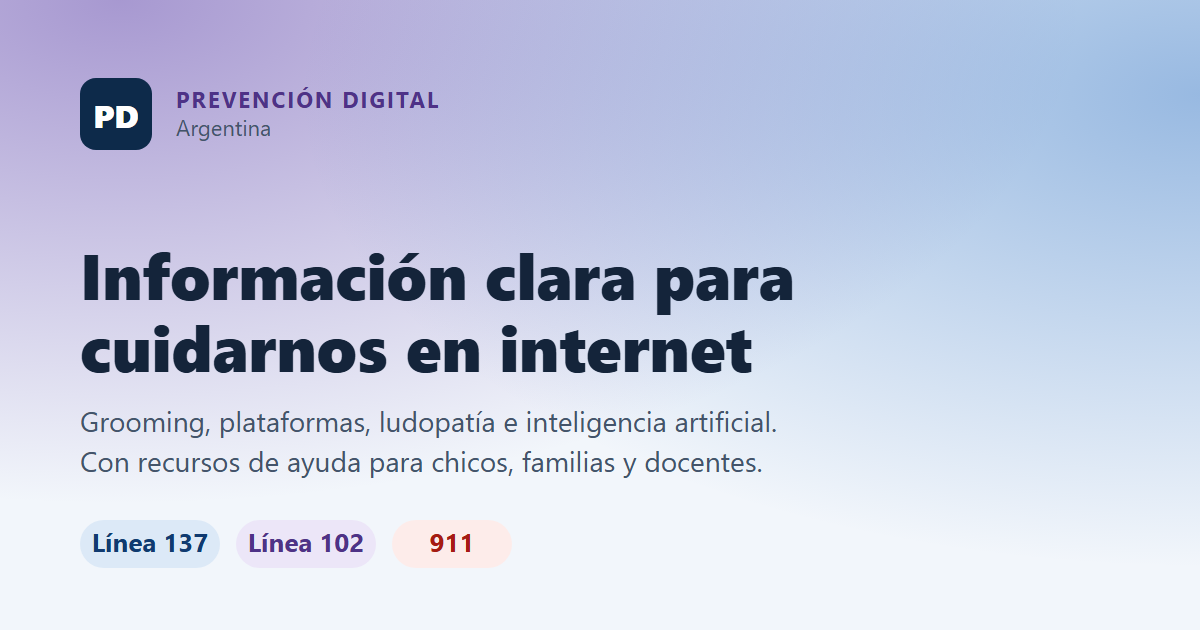
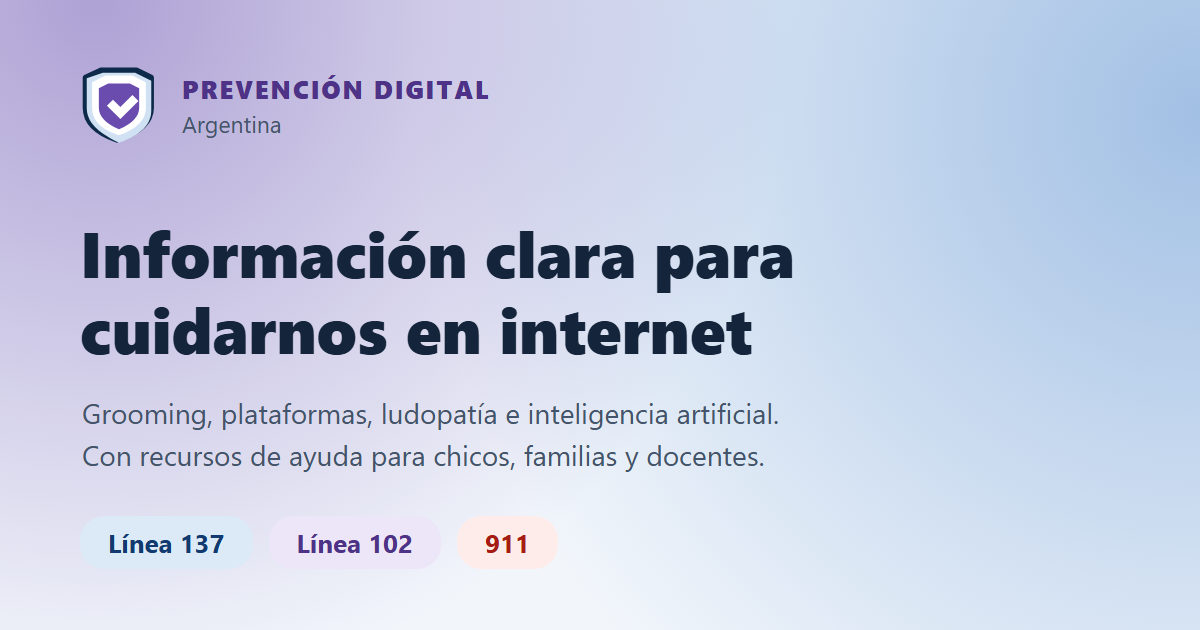
Pone el escudo como marca del sitio y arregla el enlace actual del submenú
- Reemplaza el monograma "PD" por `assets/escudo.svg` en el encabezado y el pie de todas las páginas, y actualiza favicon, icono de pantalla de inicio e imagen para compartir.
- En modo claro, el ítem de la sección actual dentro de los desplegables quedaba blanco sobre blanco: el resaltado del encabezado ya no se aplica al submenú y este tiene su propio estilo.

diff --git a/plataformas/discord.html b/plataformas/discord.html
@@ -31,7 +31,7 @@
     <header class="encabezado-sitio">
         <div class="contenedor encabezado-sitio__interior">
             <a class="marca" href="../index.html" aria-label="Prevención Digital, ir al inicio">
-                <span class="marca__monograma" aria-hidden="true">PD</span>
+                <img class="marca__icono" src="../assets/escudo.svg" alt="" width="38" height="38" aria-hidden="true">
                 <span class="marca__texto">Prevención Digital<small>Argentina</small></span>
             </a>
 
@@ -271,7 +271,7 @@
             <div class="pie-sitio__grid">
                 <div class="pie-sitio__marca">
                     <a class="marca" href="../index.html" aria-label="Prevención Digital, ir al inicio">
-                        <span class="marca__monograma" aria-hidden="true">PD</span>
+                        <img class="marca__icono" src="../assets/escudo.svg" alt="" width="38" height="38" aria-hidden="true">
                         <span class="marca__texto">Prevención Digital<small>Argentina</small></span>
                     </a>
                     <p>Información clara sobre grooming y riesgos digitales, para chicos, adolescentes, familias y docentes.</p>

diff --git a/plataformas/free-fire.html b/plataformas/free-fire.html
@@ -31,7 +31,7 @@
     <header class="encabezado-sitio">
         <div class="contenedor encabezado-sitio__interior">
             <a class="marca" href="../index.html" aria-label="Prevención Digital, ir al inicio">
-                <span class="marca__monograma" aria-hidden="true">PD</span>
+                <img class="marca__icono" src="../assets/escudo.svg" alt="" width="38" height="38" aria-hidden="true">
                 <span class="marca__texto">Prevención Digital<small>Argentina</small></span>
             </a>
 
@@ -263,7 +263,7 @@
             <div class="pie-sitio__grid">
                 <div class="pie-sitio__marca">
                     <a class="marca" href="../index.html" aria-label="Prevención Digital, ir al inicio">
-                        <span class="marca__monograma" aria-hidden="true">PD</span>
+                        <img class="marca__icono" src="../assets/escudo.svg" alt="" width="38" height="38" aria-hidden="true">
                         <span class="marca__texto">Prevención Digital<small>Argentina</small></span>
                     </a>
                     <p>Información clara sobre grooming y riesgos digitales, para chicos, adolescentes, familias y docentes.</p>

diff --git a/plataformas/minecraft.html b/plataformas/minecraft.html
@@ -31,7 +31,7 @@
     <header class="encabezado-sitio">
         <div class="contenedor encabezado-sitio__interior">
             <a class="marca" href="../index.html" aria-label="Prevención Digital, ir al inicio">
-                <span class="marca__monograma" aria-hidden="true">PD</span>
+                <img class="marca__icono" src="../assets/escudo.svg" alt="" width="38" height="38" aria-hidden="true">
                 <span class="marca__texto">Prevención Digital<small>Argentina</small></span>
             </a>
 
@@ -263,7 +263,7 @@
             <div class="pie-sitio__grid">
                 <div class="pie-sitio__marca">
                     <a class="marca" href="../index.html" aria-label="Prevención Digital, ir al inicio">
-                        <span class="marca__monograma" aria-hidden="true">PD</span>
+                        <img class="marca__icono" src="../assets/escudo.svg" alt="" width="38" height="38" aria-hidden="true">
                         <span class="marca__texto">Prevención Digital<small>Argentina</small></span>
                     </a>
                     <p>Información clara sobre grooming y riesgos digitales, para chicos, adolescentes, familias y docentes.</p>

diff --git a/plataformas/roblox.html b/plataformas/roblox.html
@@ -31,7 +31,7 @@
     <header class="encabezado-sitio">
         <div class="contenedor encabezado-sitio__interior">
             <a class="marca" href="../index.html" aria-label="Prevención Digital, ir al inicio">
-                <span class="marca__monograma" aria-hidden="true">PD</span>
+                <img class="marca__icono" src="../assets/escudo.svg" alt="" width="38" height="38" aria-hidden="true">
                 <span class="marca__texto">Prevención Digital<small>Argentina</small></span>
             </a>
 
@@ -263,7 +263,7 @@
             <div class="pie-sitio__grid">
                 <div class="pie-sitio__marca">
                     <a class="marca" href="../index.html" aria-label="Prevención Digital, ir al inicio">
-                        <span class="marca__monograma" aria-hidden="true">PD</span>
+                        <img class="marca__icono" src="../assets/escudo.svg" alt="" width="38" height="38" aria-hidden="true">
                         <span class="marca__texto">Prevención Digital<small>Argentina</small></span>
                     </a>
                     <p>Información clara sobre grooming y riesgos digitales, para chicos, adolescentes, familias y docentes.</p>

diff --git a/temas/ia.html b/temas/ia.html
@@ -31,7 +31,7 @@
     <header class="encabezado-sitio">
         <div class="contenedor encabezado-sitio__interior">
             <a class="marca" href="../index.html" aria-label="Prevención Digital, ir al inicio">
-                <span class="marca__monograma" aria-hidden="true">PD</span>
+                <img class="marca__icono" src="../assets/escudo.svg" alt="" width="38" height="38" aria-hidden="true">
                 <span class="marca__texto">Prevención Digital<small>Argentina</small></span>
             </a>
 
@@ -306,7 +306,7 @@
             <div class="pie-sitio__grid">
                 <div class="pie-sitio__marca">
                     <a class="marca" href="../index.html" aria-label="Prevención Digital, ir al inicio">
-                        <span class="marca__monograma" aria-hidden="true">PD</span>
+                        <img class="marca__icono" src="../assets/escudo.svg" alt="" width="38" height="38" aria-hidden="true">
                         <span class="marca__texto">Prevención Digital<small>Argentina</small></span>
                     </a>
                     <p>Información clara sobre grooming y riesgos digitales, para chicos, adolescentes, familias y docentes.</p>

diff --git a/temas/ludopatia.html b/temas/ludopatia.html
@@ -31,7 +31,7 @@
     <header class="encabezado-sitio">
         <div class="contenedor encabezado-sitio__interior">
             <a class="marca" href="../index.html" aria-label="Prevención Digital, ir al inicio">
-                <span class="marca__monograma" aria-hidden="true">PD</span>
+                <img class="marca__icono" src="../assets/escudo.svg" alt="" width="38" height="38" aria-hidden="true">
                 <span class="marca__texto">Prevención Digital<small>Argentina</small></span>
             </a>
 
@@ -309,7 +309,7 @@
             <div class="pie-sitio__grid">
                 <div class="pie-sitio__marca">
                     <a class="marca" href="../index.html" aria-label="Prevención Digital, ir al inicio">
-                        <span class="marca__monograma" aria-hidden="true">PD</span>
+                        <img class="marca__icono" src="../assets/escudo.svg" alt="" width="38" height="38" aria-hidden="true">
                         <span class="marca__texto">Prevención Digital<small>Argentina</small></span>
                     </a>
                     <p>Información clara sobre grooming y riesgos digitales, para chicos, adolescentes, familias y docentes.</p>

diff --git a/404.html b/404.html
@@ -22,7 +22,7 @@
     <header class="encabezado-sitio">
         <div class="contenedor encabezado-sitio__interior">
             <a class="marca" href="index.html" aria-label="Prevención Digital, ir al inicio">
-                <span class="marca__monograma" aria-hidden="true">PD</span>
+                <img class="marca__icono" src="assets/escudo.svg" alt="" width="38" height="38" aria-hidden="true">
                 <span class="marca__texto">Prevención Digital<small>Argentina</small></span>
             </a>
 
@@ -212,7 +212,7 @@
             <div class="pie-sitio__grid">
                 <div class="pie-sitio__marca">
                     <a class="marca" href="index.html" aria-label="Prevención Digital, ir al inicio">
-                        <span class="marca__monograma" aria-hidden="true">PD</span>
+                        <img class="marca__icono" src="assets/escudo.svg" alt="" width="38" height="38" aria-hidden="true">
                         <span class="marca__texto">Prevención Digital<small>Argentina</small></span>
                     </a>
                     <p>Información clara sobre grooming y riesgos digitales, para chicos, adolescentes, familias y docentes.</p>

diff --git a/ayuda.html b/ayuda.html
@@ -31,7 +31,7 @@
     <header class="encabezado-sitio">
         <div class="contenedor encabezado-sitio__interior">
             <a class="marca" href="index.html" aria-label="Prevención Digital, ir al inicio">
-                <span class="marca__monograma" aria-hidden="true">PD</span>
+                <img class="marca__icono" src="assets/escudo.svg" alt="" width="38" height="38" aria-hidden="true">
                 <span class="marca__texto">Prevención Digital<small>Argentina</small></span>
             </a>
 
@@ -316,7 +316,7 @@
             <div class="pie-sitio__grid">
                 <div class="pie-sitio__marca">
                     <a class="marca" href="index.html" aria-label="Prevención Digital, ir al inicio">
-                        <span class="marca__monograma" aria-hidden="true">PD</span>
+                        <img class="marca__icono" src="assets/escudo.svg" alt="" width="38" height="38" aria-hidden="true">
                         <span class="marca__texto">Prevención Digital<small>Argentina</small></span>
                     </a>
                     <p>Información clara sobre grooming y riesgos digitales, para chicos, adolescentes, familias y docentes.</p>

diff --git a/chicos.html b/chicos.html
@@ -31,7 +31,7 @@
     <header class="encabezado-sitio">
         <div class="contenedor encabezado-sitio__interior">
             <a class="marca" href="index.html" aria-label="Prevención Digital, ir al inicio">
-                <span class="marca__monograma" aria-hidden="true">PD</span>
+                <img class="marca__icono" src="assets/escudo.svg" alt="" width="38" height="38" aria-hidden="true">
                 <span class="marca__texto">Prevención Digital<small>Argentina</small></span>
             </a>
 
@@ -449,7 +449,7 @@
             <div class="pie-sitio__grid">
                 <div class="pie-sitio__marca">
                     <a class="marca" href="index.html" aria-label="Prevención Digital, ir al inicio">
-                        <span class="marca__monograma" aria-hidden="true">PD</span>
+                        <img class="marca__icono" src="assets/escudo.svg" alt="" width="38" height="38" aria-hidden="true">
                         <span class="marca__texto">Prevención Digital<small>Argentina</small></span>
                     </a>
                     <p>Información clara sobre grooming y riesgos digitales, para chicos, adolescentes, familias y docentes.</p>

diff --git a/familias.html b/familias.html
@@ -31,7 +31,7 @@
     <header class="encabezado-sitio">
         <div class="contenedor encabezado-sitio__interior">
             <a class="marca" href="index.html" aria-label="Prevención Digital, ir al inicio">
-                <span class="marca__monograma" aria-hidden="true">PD</span>
+                <img class="marca__icono" src="assets/escudo.svg" alt="" width="38" height="38" aria-hidden="true">
                 <span class="marca__texto">Prevención Digital<small>Argentina</small></span>
             </a>
 
@@ -449,7 +449,7 @@
             <div class="pie-sitio__grid">
                 <div class="pie-sitio__marca">
                     <a class="marca" href="index.html" aria-label="Prevención Digital, ir al inicio">
-                        <span class="marca__monograma" aria-hidden="true">PD</span>
+                        <img class="marca__icono" src="assets/escudo.svg" alt="" width="38" height="38" aria-hidden="true">
                         <span class="marca__texto">Prevención Digital<small>Argentina</small></span>
                     </a>
                     <p>Información clara sobre grooming y riesgos digitales, para chicos, adolescentes, familias y docentes.</p>

diff --git a/grooming.html b/grooming.html
@@ -31,7 +31,7 @@
     <header class="encabezado-sitio">
         <div class="contenedor encabezado-sitio__interior">
             <a class="marca" href="index.html" aria-label="Prevención Digital, ir al inicio">
-                <span class="marca__monograma" aria-hidden="true">PD</span>
+                <img class="marca__icono" src="assets/escudo.svg" alt="" width="38" height="38" aria-hidden="true">
                 <span class="marca__texto">Prevención Digital<small>Argentina</small></span>
             </a>
 
@@ -419,7 +419,7 @@
             <div class="pie-sitio__grid">
                 <div class="pie-sitio__marca">
                     <a class="marca" href="index.html" aria-label="Prevención Digital, ir al inicio">
-                        <span class="marca__monograma" aria-hidden="true">PD</span>
+                        <img class="marca__icono" src="assets/escudo.svg" alt="" width="38" height="38" aria-hidden="true">
                         <span class="marca__texto">Prevención Digital<small>Argentina</small></span>
                     </a>
                     <p>Información clara sobre grooming y riesgos digitales, para chicos, adolescentes, familias y docentes.</p>

diff --git a/index.html b/index.html
@@ -31,7 +31,7 @@
     <header class="encabezado-sitio">
         <div class="contenedor encabezado-sitio__interior">
             <a class="marca" href="index.html" aria-label="Prevención Digital, ir al inicio">
-                <span class="marca__monograma" aria-hidden="true">PD</span>
+                <img class="marca__icono" src="assets/escudo.svg" alt="" width="38" height="38" aria-hidden="true">
                 <span class="marca__texto">Prevención Digital<small>Argentina</small></span>
             </a>
 
@@ -273,7 +273,7 @@
             <div class="pie-sitio__grid">
                 <div class="pie-sitio__marca">
                     <a class="marca" href="index.html" aria-label="Prevención Digital, ir al inicio">
-                        <span class="marca__monograma" aria-hidden="true">PD</span>
+                        <img class="marca__icono" src="assets/escudo.svg" alt="" width="38" height="38" aria-hidden="true">
                         <span class="marca__texto">Prevención Digital<small>Argentina</small></span>
                     </a>
                     <p>Información clara sobre grooming y riesgos digitales, para chicos, adolescentes, familias y docentes.</p>
